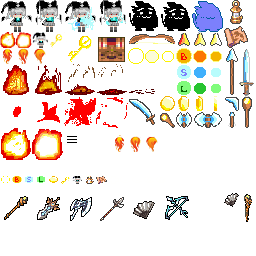
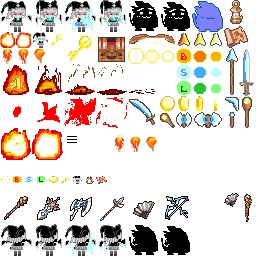
Update
自機と敵に背面画像追加

Changed region(s): [[0.0, 0.875, 0.75, 1.0]]

diff --git a/content/asset/param/scenario/enemy.js b/content/asset/param/scenario/enemy.js
@@ -64,6 +64,8 @@ function sce_enemy_move_n(num1, num2) {
             default:
                 break;
         }
+
+        if (o.vector > 180) { o.mp = (o.vector <290)? 5:14; } else { o.mp = (o.vector >70)? 4:13; };
         o.frame++;
         //o.frame++; //frame rate *2
         if (o.jump == 1 ) {
@@ -153,6 +155,8 @@ function sce_enemy_turn( num ){
         }
         o.frame++;
 
+        if (o.vector > 180) { o.mp = (o.vector <290)? 5:14; } else { o.mp = (o.vector >70)? 4:13; };
+
         if (o.jump == 1 ) {
             o.shifty = o.shifty + o.jpvec;
             o.jpvec = o.jpvec + 0.4 * o.vecfrm;
@@ -232,7 +236,7 @@ function sce_enemy_moveshot() {
 
         o.vset(4);
 
-        if (o.vector > 180) { o.mp = 5; } else { o.mp = 4; }
+        if (o.vector > 180) { o.mp = (o.vector <290)? 5:14; } else { o.mp = (o.vector >70)? 4:13; };
 
         if (o.frame % 50 == 5) {
             //inventry check
@@ -316,8 +320,6 @@ function sce_enemy_randomshot() {
 
     this.move = function (scrn, o) {
 
-        if (o.vector > 180) { o.mp = 5; } else { o.mp = 4; }
-
         switch (o.frame) {
             case 10:
                 o.vset(0);
@@ -367,7 +369,8 @@ function sce_enemy_randomshot() {
             }            
             return o.sc_move();
         }
-        if (o.vector > 180) { o.mp = 5; } else { o.mp = 4; }
+        //if (o.vector > 180) { o.mp = 5; } else { o.mp = 4; }
+        if (o.vector > 180) { o.mp = (o.vector <290)? 5:14; } else { o.mp = (o.vector >70)? 4:13; };
 
         if (o.mapCollision) {
             if (o.colcnt > 1) {//連続衝突するとジャンプして回避してみる
@@ -436,7 +439,8 @@ function sce_enemy_move_std(){
             //o.colcnt = 0;
         }
 
-        if (o.vector > 180) { o.mp = 5; } else { o.mp = 4; }
+        //if (o.vector > 180) { o.mp = 5; } else { o.mp = 4; }
+        if (o.vector > 180) { o.mp = (o.vector <290)? 5:14; } else { o.mp = (o.vector >70)? 4:13; };
 
         if (o.mapCollision) {
             if (o.colcnt > 1) {//連続衝突するとジャンプして回避してみる
@@ -570,7 +574,12 @@ function sce_enemy_move_std2( intrvl, sdst ) {
             //o.vset(maxspeed);
         }
 
-        if (o.vector > 180) { o.mp = 5; } else { o.mp = 4; }
+        if (o.vector > 180) { o.mp = (o.vector <290)? 5:14; } else { o.mp = (o.vector >70)? 4:13; };
+
+        //
+        //  under 70 upper 290  
+        // 
+        //
 
         if (o.mapCollision) {
             //o.colcnt++;

diff --git a/content/asset/param/motionPtn.js b/content/asset/param/motionPtn.js
@@ -11,6 +11,14 @@
 //  Mirror and Radian -1 -> Object data
 //　オブジェクトの持つラジアン値を使用する。
 //
+/**
+ * @typedef {object} MotionPattern
+ * @property {number} wait アニメーション間隔(フレーム)
+ * @property {pattern} pattern パターン配列 
+ */
+/** 
+ * @returns {MotionPattern[]} motionPatternリスト 
+ */
 function motionPattern(){
 
 	let mp = [];
@@ -52,6 +60,12 @@ function motionPattern(){
 	["Mayura3", 2, 0],
 	["Mayura4", 2, 0]
     ];
+
+	//*8 mayura 右後ろ向き 9 mayura 左後ろ向き
+	//=================================================
+	mp[8] = {wait:18, pattern:[["Mayura1r",0,0],["Mayura2r",0,0],["Mayura3r",0,0],["Mayura4r",0,0]]};
+	mp[9] = {wait:18, pattern:[["Mayura1r",2,0],["Mayura2r",2,0],["Mayura3r",2,0],["Mayura4r",2,0]]};
+
 	//Option
 	//=================================================
     no = 3;
@@ -61,7 +75,7 @@ function motionPattern(){
 	mp[no].pattern = [
 	["miniMay", 0, 0]
     ];
-	//ENEMY
+	//ENEMY右向き
 	//=================================================
 	no = 4;
 
@@ -73,7 +87,7 @@ function motionPattern(){
 	["Unyuu2", 0, 0]
     ];
 
-	//ENEMY
+	//ENEMY左向き
 	//=================================================
 	no = 5;
 
@@ -84,6 +98,12 @@ function motionPattern(){
 	["Unyuu1", 2, 0],
 	["Unyuu2", 2, 0]
     ];
+	
+	//*13 EUnyuu  右後ろ向き 14 EUnyuu 左後ろ向き
+	//=================================================
+	mp[13] = {wait:18, pattern:[["Unyuu1r",0,0],["Unyuu2r",0,0]]};
+	mp[14] = {wait:18, pattern:[["Unyuu1r",2,0],["Unyuu2r",2,0]]};
+
 	//Unyuu右向き
 	//=================================================
     no = 31;
@@ -433,7 +453,7 @@ function motionPattern(){
 	return mp;
 }
 //===================================
-//2023/04/06 check
+// *add 2025/09/04 
 //===================================
 /*
 1 mayura 右向き 2 mayura 左向き
@@ -441,10 +461,11 @@ function motionPattern(){
 4 Unyuu  右向き 5 Unyuu  左向き
 6 BUnyuu 左向き
 7 Bullet 
-8-10 (Reserb)
+*8 mayura 右後ろ向き 9 mayura 左後ろ向き
+10 (Reserb)
 11 Hit 
-12 Bomb 
-13-14 (Reserb)
+12 Bomb
+*13 Unyuu  右後ろ向き 14 Unyuu 左後ろ向き
 15 Knife
 16 Spear
 17 Boom

diff --git a/content/asset/param/scenario/player.js b/content/asset/param/scenario/player.js
@@ -275,6 +275,8 @@ function sce_player( gObjc ) {
         o.get_item(0);//オープニング説明実施
 
         o.frame = SHIELD_TIME;
+
+        o.vector = 180;
     }
 
     this.draw = damage_gr1;
@@ -360,8 +362,21 @@ function sce_player( gObjc ) {
             o.mvkeytrig = (o.mvkeytrig-o.vecfrm < 0)?0 : o.mvkeytrig;
         }
 
-        if (o.vector > 180) { o.mp = 2; } else { o.mp = 1; }
-        
+        //if (o.vector > 180) { o.mp = 2; } else { o.mp = 1; }
+        if (o.vector >= 180) {
+            if (o.vector == 180 && ((o.mp == 1)||(o.mp == 8))) {
+                o.mp = 1;
+            }else{
+                o.mp = (o.vector <290)? 2:9;
+            } 
+        } else { 
+            if (o.vector == 0 && ((o.mp == 2)||(o.mp == 9))) {
+                o.mp = 9;
+            }else{
+                o.mp = (o.vector >70)? 1:8; 
+            } 
+        };
+
         let hkey = false;//Debug Help action test 
         if (o.input.vkey) { hkey = true; }
 

diff --git a/content/asset/param/spdata.js b/content/asset/param/spdata.js
@@ -8,11 +8,15 @@ function spdata(){
 	["Mayura2", 32, 0, 32, 32],
 	["Mayura3", 64, 0, 32, 32],
 	["Mayura4", 96, 0, 32, 32],
+	["Mayura1r", 0, 224, 32, 32],
+	["Mayura2r", 32, 224, 32, 32],
+	["Mayura3r", 64, 224, 32, 32],
+	["Mayura4r", 96, 224, 32, 32],
 	["Unyuu1", 128, 0, 32, 32],
 	["Unyuu2", 160, 0, 32, 32],
-	["Unyuu3", 192, 0, 32, 32],
-//	["Fire1", 0, 32, 32, 32],
-//	["Fire2", 32, 32, 32, 32],
+	["Unyuu1r", 128, 224, 32, 32],
+	["Unyuu2r", 160, 224, 32, 32],
+	["Unyuu3", 192, 0, 32, 32], //BlueU
 	["Fire1",  0, 32, 16, 16],
 	["Fire2", 16, 32, 16, 16],
 	["Down1", 0, 64, 32, 32],
@@ -39,7 +43,6 @@ function spdata(){
 	["Key",     64, 32, 32, 32],
 	["sKey",    48, 32, 16, 16],
 	["miniMay", 32, 32, 16, 16],
-//	["Door",  96, 32, 32, 32],
 	["TrBox",  96, 32, 32, 32],
 	["Space", 224, 0, 32, 32],
     ["Coin1", 160, 96, 16, 16],

diff --git a/content/proc/scene/sceneTitle.js b/content/proc/scene/sceneTitle.js
@@ -189,7 +189,7 @@ class sceneTitle {
         }
         /**
          * 
-         * @param {*} g 
+         * @param {GameCore} g GameCoreインスタンス 
          * @param {*} input 
          * @returns returncode (nextScene)
          * @description
@@ -340,8 +340,6 @@ function titleItemListMap(state){
     const chItbl = state.Database.chrItemtable;
 
     const itemTable = [];
-    let mCntWait = [];
-    let mCnt = []; 
 
     for (let i in chPtn){
         const c = chPtn[i]

diff --git a/content/asset/param/constant.js b/content/asset/param/constant.js
@@ -104,7 +104,7 @@ function ConstantData(){
 
     this.DEBUGMODE_ENABLE = true;//false;
 
-    this.REVISION = "REV.Oct.27.2025";
+    this.REVISION = "REV.Sep.4.2025";
 }
 //BG:0 SP:1 FG:2 FSP:2 BUI:3 UI:4 EFFECT:5 MSG:6
 
